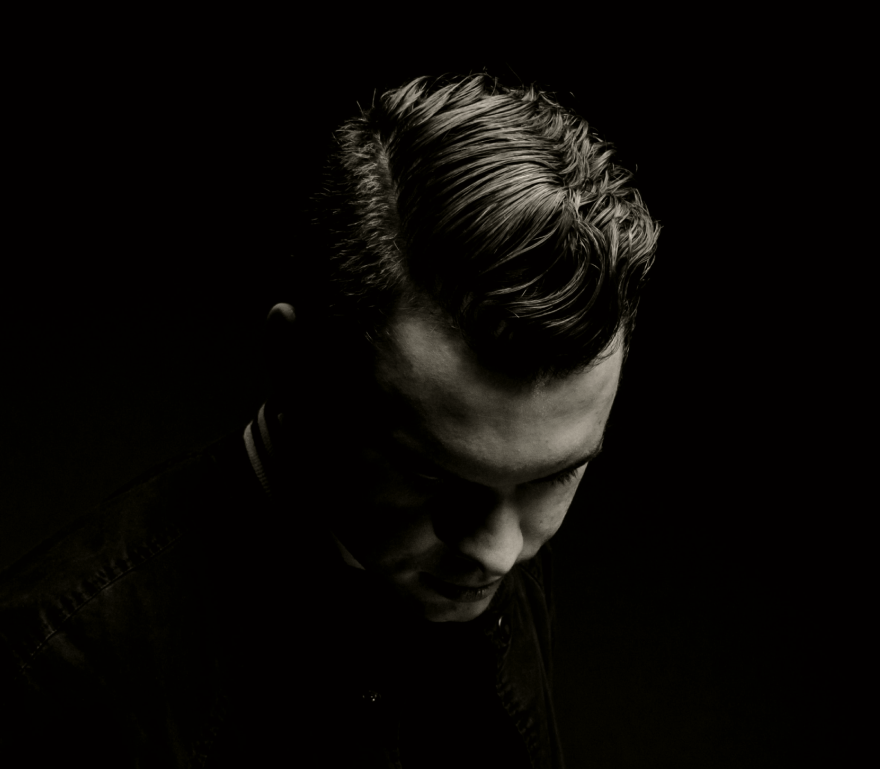
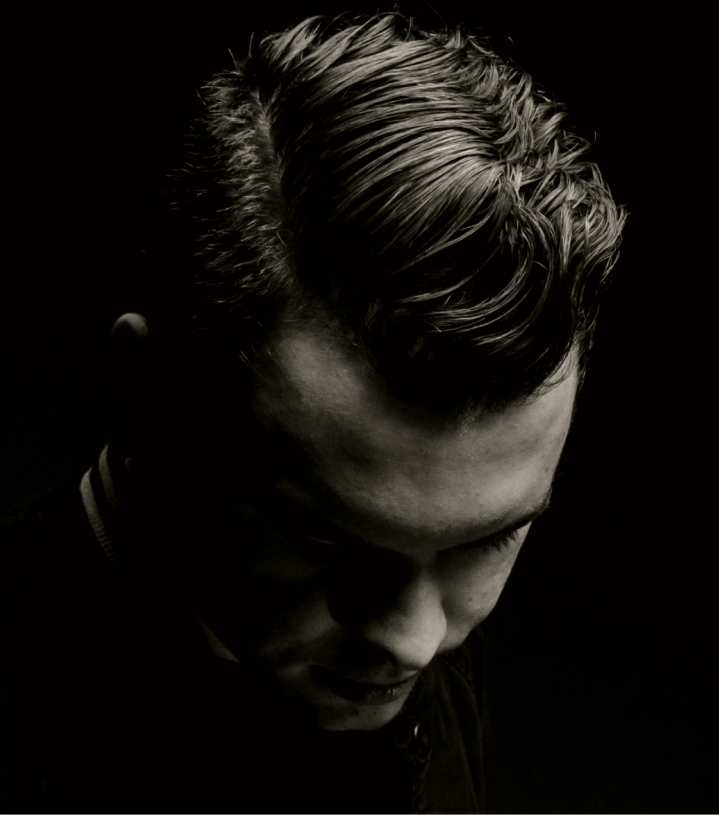
заменил hero-img.png

diff --git a/styles/_sections/main-page/hero.scss b/styles/_sections/main-page/hero.scss
@@ -1,6 +1,7 @@
 /*--------------------hero----------------------*/
 .hero {}
-.hero__wrapper {
+.hero__container {
+	padding-inline: math.div($containerPaddings,2) + px;
 	min-height: 100svh;
 	display: grid;
 	// grid-template-rows: 1fr auto;
@@ -11,24 +12,26 @@
 	// background-color: orange;
 	display: flex;
 	justify-content: center;
+	overflow: hidden;
 }
 .hero__image {
 	margin-inline: auto;
 	display: block;
 	max-width: none;
 	width: 100vw;
-	height: 55svh;
+	height: 50dvh;
+	translate: 0 5% ;
 	// aspect-ratio: 719/814;
 	object-fit: contain;
 	mix-blend-mode: lighten;
 
-	@include max-screen($sm){
-		object-fit: cover;
-	}
+	// @include max-screen($sm){
+	// 	object-fit: cover;
+	// }
 }
 .hero__blockhead{
 	.blockhead{
-		translate: 0 -12%;
+		translate: 0 -5%;
 	}
 }
 /*--------------------END hero----------------------*/ 
